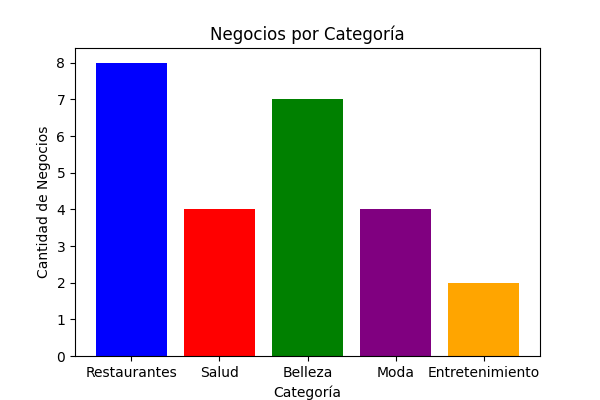
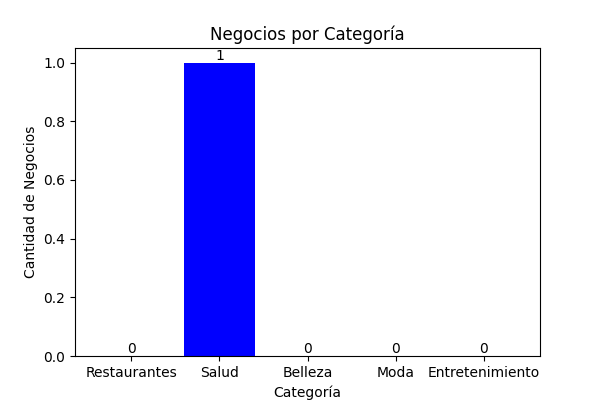
Mejoras Admin

diff --git a/templates/comercios/catalogo.html b/templates/comercios/catalogo.html
@@ -5,32 +5,36 @@
 
 <section class="container">
   <div class="row row-cols-1 row-cols-md-3 g-4 mt-2">
-    {% for item in comercios %}
-    <div class="col">
-      <div class="card">
-        <img src="{{ item.imagen.url }}" class="card-img-top" alt="..." />
-        <div class="card-body">
-          <h5 class="card-title">{{ item.nombre_comercio }}</h5>
-          <p class="card-text">Teléfono: {{item.telefono}}</p>
-          <p class="card-text">Dirección: {{item.direccion}}</p>
-          <p class="card-text">Correo electrónico: {{item.email}}</p>
-        </div>
-        <div class="card-footer">
-          <div class="row justify-content-between">
-            <button type="button" class="btn btn-success btn-sm col-md-4">
-              {{ item.categoria }}
-            </button>
-            <a
-              target="_blank"
-              class="btn btn-tertiary btn-sm col-md-6"
-              href="https://maps.app.goo.gl/Zgy1NuegNU6XbMvy9"
-              >Ver Mapa</a
-            >
+    {% if comercios %}
+      {% for item in comercios %}
+      <div class="col">
+        <div class="card">
+          <img src="{{ item.imagen.url }}" class="card-img-top" alt="..." />
+          <div class="card-body">
+            <h5 class="card-title">{{ item.nombre_comercio }}</h5>
+            <p class="card-text">Teléfono: {{item.telefono}}</p>
+            <p class="card-text">Dirección: {{item.direccion}}</p>
+            <p class="card-text">Correo electrónico: {{item.email}}</p>
+          </div>
+          <div class="card-footer">
+            <div class="row justify-content-between">
+              <button type="button" class="btn btn-success btn-sm col-md-4">
+                {{ item.categoria }}
+              </button>
+              <a
+                target="_blank"
+                class="btn btn-tertiary btn-sm col-md-6"
+                href="{{ item.mapa }}"
+                >Ver Mapa</a
+              >
+            </div>
           </div>
         </div>
       </div>
-    </div>
-    {% endfor %}
+      {% endfor %}
+    {% else %}
+      <p>No hay comercios registrados</p>
+    {% endif %}
   </div>
 </section>
 

diff --git a/templates/comercios/registro.html b/templates/comercios/registro.html
@@ -13,8 +13,13 @@
             <img src="{% static 'media/img/logo2.png' %}" alt="" class="img-fluid" style="width: 180px; height: 180px;">
         </div>
     <div class="row">
+        <!-- Manejo de errores del formulario:  -->
+        <div id="error-alert" class="alert alert-danger" style="display: none;">
+            <ul id="error-list"></ul>
+        </div>
+
         <h2 class="text-center text-dark mt-3 mb-4" style="font-weight: bold; letter-spacing: 1px;">Registro de Comercio</h2>
-        <form action="" method="post" class="row" enctype="multipart/form-data">
+        <form action="" method="post" class="row" enctype="multipart/form-data" id="registro-form">
             {% csrf_token %}
             <div class="col-md-6 mt-3 mb-2">
                 <label for="" class="form-label text-dark" style="font-weight: bold;">Categoria</label>
@@ -32,16 +37,21 @@
                 {{ form.direccion }}
             </div>
             <div class="col-md-6 mt-3 mb-2">
+                <label for="" class="form-label text-dark" style="font-weight: bold;">Ubicanos en el Mapa</label>
+                {{ form.non_field_errors }}
+                {{ form.mapa }}
+            </div>
+            <div class="col-md-4 mt-3 mb-2">
                 <label for="" class="form-label text-dark" style="font-weight: bold;">Teléfono</label>
                 {{ form.non_field_errors }}
                 {{ form.telefono }}
             </div>
-            <div class="col-md-6 mt-3 mb-2">
+            <div class="col-md-4 mt-3 mb-2">
                 <label for="" class="form-label text-dark" style="font-weight: bold;">Correo Electrónico</label>
                 {{ form.non_field_errors }}
                 {{ form.email }}
             </div>
-            <div class="col-md-6 mt-3 mb-2">
+            <div class="col-md-4 mt-3 mb-2">
                 <label for="" class="form-label text-dark" style="font-weight: bold;">Imagen</label>
                 {{ form.non_field_errors }}
                 {{ form.imagen }}

diff --git a/templates/comercios/estadistica.html b/templates/comercios/estadistica.html
@@ -9,7 +9,7 @@
 <section class="container">
     <div class="row">
         <div class="img-fluid col-md-12 text-center">
-            <img src="/static/img/conteo_comercios.png" alt="">
+            <img src="/static/media/img/graficas/conteo_comercios.png" alt="">
         </div>
     </div>
 </section>

diff --git a/comercios/views.py b/comercios/views.py
@@ -33,6 +33,11 @@ class ComercioListview(ListView):
     model = Comercio
     context_object_name = 'comercios'
 
+    def get_queryset(self):
+        publicados = Comercio.objects.filter(publicado = True)
+
+        return publicados
+    
 
 class RestaurantesListview(ListView):
     template_name = 'comercios/restaurantes.html'
@@ -94,26 +99,33 @@ class GraficoPageView(TemplateView):
     template_name = 'comercios/estadistica.html'
 
     def get(self, request, *args, **kwargs):
-        data = Comercio.objects.all()
+        # Creamos 2 arreglos para los ejes de los gráficos:
         categorias = ['Restaurantes', 'Salud', 'Belleza', 'Moda', 'Entretenimiento']
         conteo = [Comercio.objects.filter(categoria=c).count() for c in categorias]
-        # Crear la gráfica
         
+        # Crear la gráfica
         plt.figure(figsize=(6,4))
-        plt.bar(categorias, conteo, color=['blue', 'red', 'green', 'purple', 'orange'])
+        bars = plt.bar(categorias, conteo, color=['yellow', 'blue', 'red', 'purple', 'orange'])
         plt.xlabel('Categoría')
         plt.ylabel('Cantidad de Negocios')
         plt.title('Negocios por Categoría')
 
-        graf = os.path.join(settings.STATICFILES_DIRS[0], 'img')
+        # Agregar los valores sobre las barras:
+        for bar in bars:
+            yval = bar.get_height()
+            plt.text(bar.get_x() + bar.get_width() / 2, yval, int(yval), ha='center', va='bottom')
+
+        # Creamos el directorio de la gráfica:
+        graf = os.path.join(settings.STATICFILES_DIRS[0], 'media/img/graficas')
         os.makedirs(graf, exist_ok=True)
 
+        # Guardamos la gráfica
         img_path = os.path.join(graf, 'conteo_comercios.png')
         plt.savefig(img_path)
         plt.close()
 
-
-        return render(request, self.template_name, {'titulog': 'Cantidad de Comercios por Categoría', 'grafica':f'img/conteo_comercios.png'})
+        # Nota: El gráfico se rendizará por cada vez que abramos la página:
+        return render(request, self.template_name, {'titulog': 'Cantidad de Comercios por Categoría', 'grafica':f'{graf}/conteo_comercios.png'})
     
     
         

diff --git a/comercios/models.py b/comercios/models.py
@@ -13,6 +13,8 @@ class Comercio(models.Model):
     telefono = models.CharField(max_length=40)
     email = models.EmailField(unique=True)
     imagen = models.ImageField(upload_to=subir_logo)
+    mapa = models.URLField(max_length=500, null=True)
+    publicado = models.BooleanField(default=False)
 
     class Meta:
         verbose_name = 'Comercio'
@@ -24,7 +26,8 @@ class Comercio(models.Model):
 class SocialMedia(models.Model):
     comercio = models.ForeignKey(Comercio, on_delete = models.CASCADE)
     social_media = models.CharField(choices = Social_Media, max_length=200)
-    estado = models.BooleanField(default=True)
+    url = models.URLField(max_length=200, null=True)
+    estado = models.BooleanField(default=True, verbose_name='¿Activo?')
 
     class Meta:
         verbose_name_plural = 'Redes Sociales'

diff --git a/comercios/admin.py b/comercios/admin.py
@@ -3,5 +3,22 @@ from .models import SocialMedia, Comercio
 
 # Register your models here.
 
-admin.site.register(SocialMedia)
-admin.site.register(Comercio)
+class ComercioAdmin(admin.ModelAdmin):
+    list_display = ('categoria', 'nombre_comercio', 'direccion','telefono', 'email')
+    ordering = ('categoria','nombre_comercio')
+    search_fields = ('categoria','nombre_comercio')
+
+    class Meta:
+        model = Comercio
+
+class SocialMediaAdmin(admin.ModelAdmin):   
+    list_display = ('comercio', 'social_media', 'estado')
+    ordering = ('comercio','social_media')
+    search_fields = ('comercio','social_media')
+    list_filter = ('comercio',)
+    list_per_page = 10
+
+
+admin.site.register(SocialMedia, SocialMediaAdmin)
+admin.site.register(Comercio, ComercioAdmin)
+

diff --git a/comercios/forms.py b/comercios/forms.py
@@ -15,4 +15,5 @@ class RegistroComercio(forms.ModelForm):
             'telefono': forms.TextInput(attrs={'class': 'form-control'}),
             'email': forms.EmailInput(attrs={'class': 'form-control'}),
             'imagen': forms.ClearableFileInput(attrs={'class': 'form-control'}),
+            'mapa': forms.URLInput(attrs={'class': 'form-control'}),
         }
